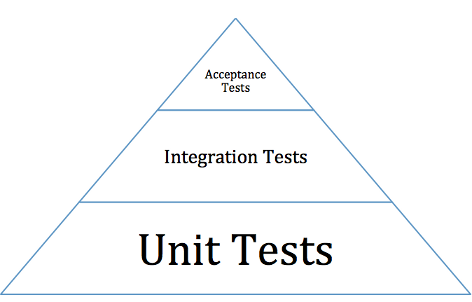
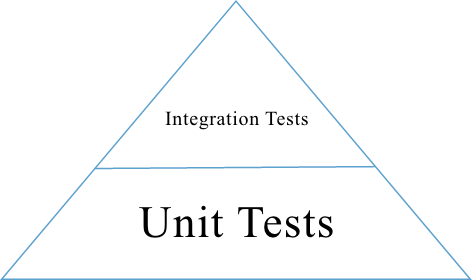
docs: Removing bokchoy and a11y reference from documentation.

diff --git a/docs/guides/testing/testing.rst b/docs/guides/testing/testing.rst
@@ -9,8 +9,7 @@ Testing
 Overview
 ========
 
-We maintain three kinds of tests: unit tests, integration tests, and
-acceptance tests.
+We maintain two kinds of tests: unit tests and integration tests.
 
 Overall, you want to write the tests that **maximize coverage** while
 **minimizing maintenance**. In practice, this usually means investing
@@ -22,8 +21,8 @@ the code base.
 
    Test Pyramid
 
-The pyramid above shows the relative number of unit tests, integration
-tests, and acceptance tests. Most of our tests are unit tests or
+The pyramid above shows the relative number of unit tests and integration
+tests. Most of our tests are unit tests or
 integration tests.
 
 Test Types
@@ -67,19 +66,6 @@ Integration Tests
 
 .. _Django test client: https://docs.djangoproject.com/en/dev/topics/testing/overview/
 
-
-UI Acceptance Tests
-~~~~~~~~~~~~~~~~~~~
-
--  There should be very few UI acceptance tests since they are generally slow and
-   flaky. Use these to test only bare minimum happy paths for necessary features.
-
--  We use `Bok Choy`_ to write end-user acceptance tests directly in Python,
-   using the framework to maximize reliability and maintainability.
-
-.. _Bok Choy: https://bok-choy.readthedocs.org/en/latest/tutorial.html
-
-
 Test Locations
 --------------
 
@@ -94,14 +80,6 @@ Test Locations
    the test for ``src/views/module.js`` should be written in
    ``spec/views/module_spec.js``.
 
--  UI acceptance tests:
-
-   -  Set up and helper methods, and stubs for external services:
-      ``common/djangoapps/terrain``
-   -  Bok Choy Acceptance Tests: located under ``common/test/acceptance/tests``
-   -  Bok Choy Accessibility Tests: located under ``common/test/acceptance/tests`` and tagged with ``@attr("a11y")``
-   -  Bok Choy PageObjects: located under ``common/test/acceptance/pages``
-
 Running Tests
 =============
 
@@ -109,8 +87,7 @@ You can run all of the unit-level tests using this command::
 
     paver test
 
-This includes python, JavaScript, and documentation tests. It does not,
-however, run any acceptance tests.
+This includes python, JavaScript, and documentation tests.
 
 Note -
 `paver` is a scripting tool. To get information about various options, you can run the this command::
@@ -425,7 +402,7 @@ Other Testing Tips
 Connecting to Browser
 ---------------------
 
-If you want to see the browser being automated for JavaScript or bok-choy tests,
+If you want to see the browser being automated for JavaScript or e2e tests against any sandbox,
 you can connect to the container running it via VNC.
 
 +------------------------+----------------------+
